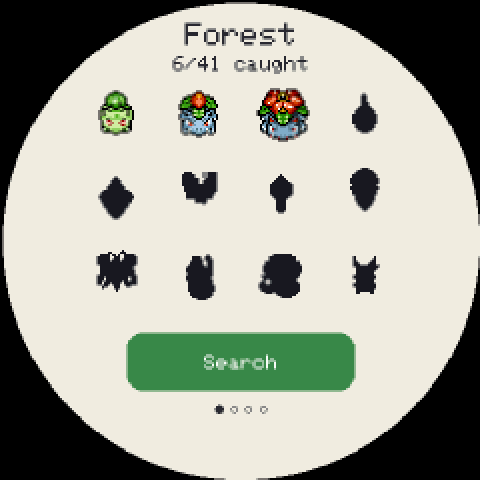
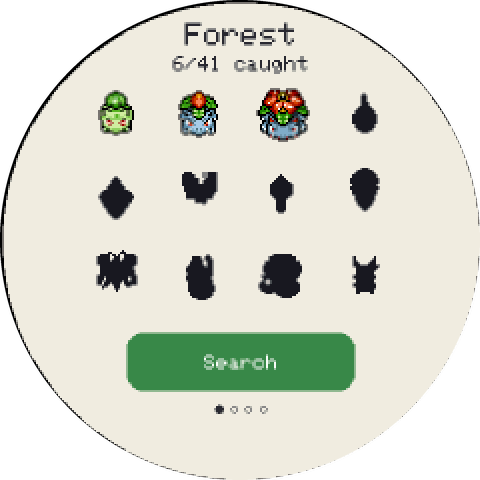
Round the new screenshots and credit the case remix
The games, zone and zone battle screenshots get the same round mask as the
others. The case's front half comes from a Printables model, now credited
in the README and CREDITS.

diff --git a/README.md b/README.md
@@ -108,7 +108,7 @@ The time zone is currently fixed to US Eastern time. You can set the clock by ha
 
 ## 3D-printed case
 
-A Poké Ball case for the Knomi, ready to print in three colors. Download [`PokeKnomiGochi-case.3mf`](print/PokeKnomiGochi-case.3mf).
+A Poké Ball case for the Knomi, ready to print in three colors. It's a remix: the front half comes from [Knomi V2 Creality K1 wall holder / table stand](https://www.printables.com/model/850244-knomi-v2-creality-k1-wall-holder-table-stand) on Printables, and the button and rounded back are new. Download [`PokeKnomiGochi-case.3mf`](print/PokeKnomiGochi-case.3mf).
 
 | | |
 |:--:|:--:|

diff --git a/CREDITS.md b/CREDITS.md
@@ -29,6 +29,13 @@ Huge thanks to that whole community for an enormous amount of work.
 > package the sprites from the original sources with `tools/pack_*.py` (or the web
 > installer).
 
+## 3D-printed case
+
+| Part | Source |
+|---|---|
+| **Front half** | [Knomi V2 Creality K1 wall holder / table stand](https://www.printables.com/model/850244-knomi-v2-creality-k1-wall-holder-table-stand) on Printables |
+| **Button and rounded back** | Fedor Sosnin |
+
 ## Software / hardware
 
 | Component | Author / source |
